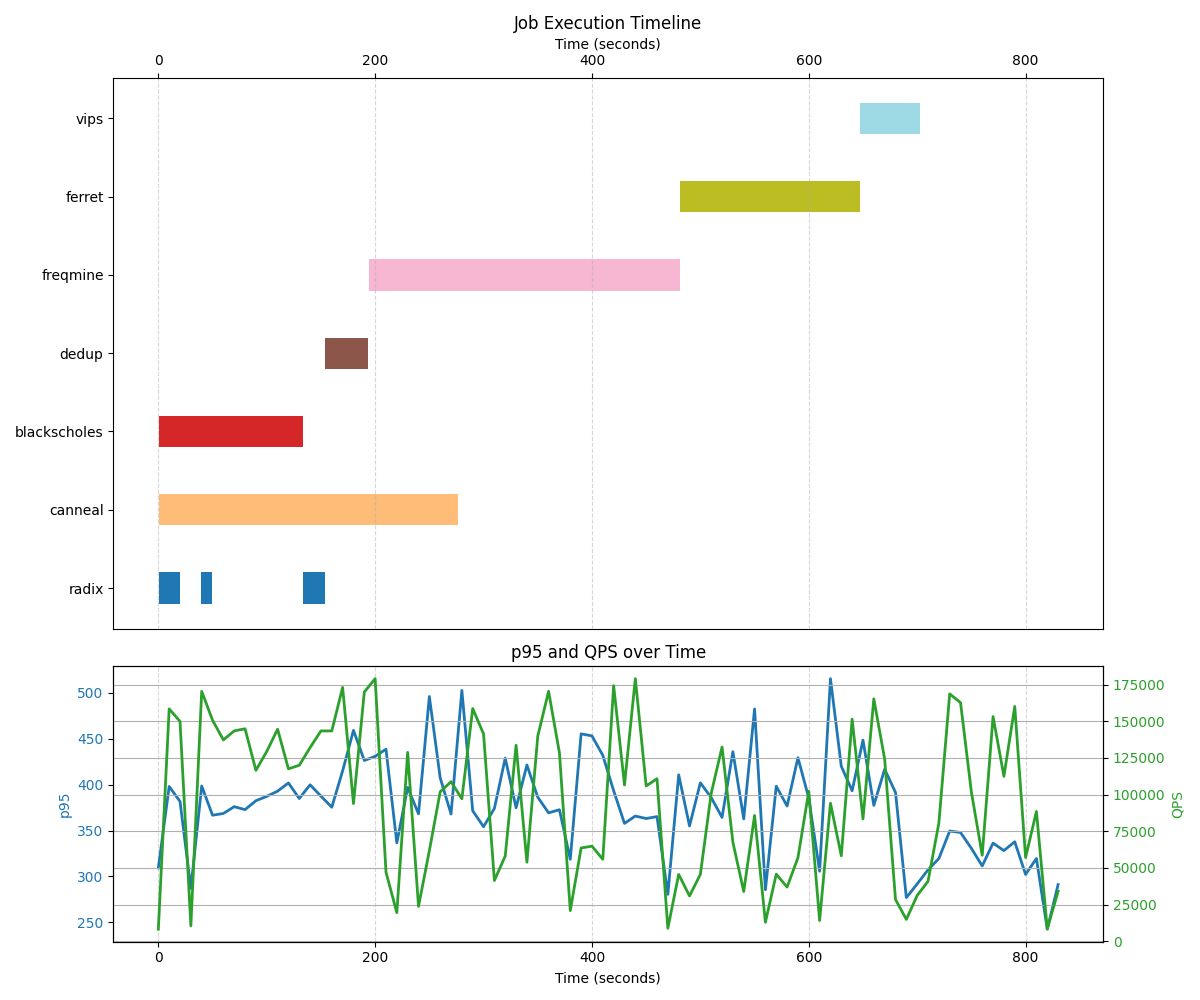
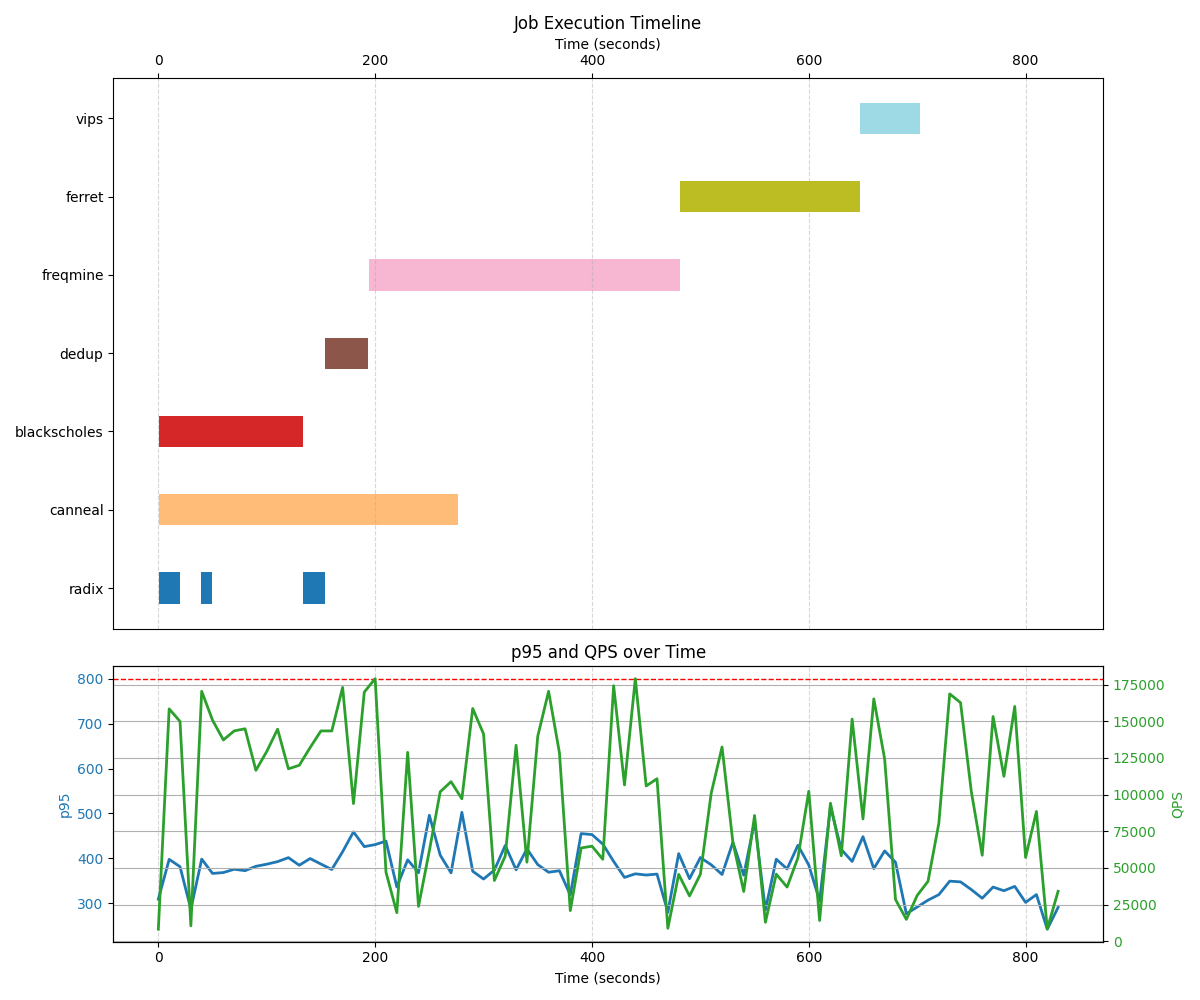
updated plots

diff --git a/part4/plot_4_3_B.py b/part4/plot_4_3_B.py
@@ -91,24 +91,7 @@ def plot_job_log_file(ax, log_file):
     ax.xaxis.set_label_position('top')
     ax.tick_params(axis='x', which='both', bottom=False, top=True, labeltop=True, labelbottom=False)
 
-
-def plot_mcperf_log_file(ax, log_file, job_log_file):
-    # Read the log file, skipping the first two lines (for Timestamp start/end)
-    with open(log_file, 'r') as f:
-        lines = f.readlines()
-
-    # Extract the 'Timestamp start' and 'Timestamp end' from the first two lines
-    timestamp_start = int(lines[0].split(':')[1].strip())
-    timestamp_end = int(lines[1].split(':')[1].strip())
-
-    # Read the data into a pandas DataFrame, starting from the 3rd line (index 2)
-    # We will use the columns based on your provided header information
-    df = pd.read_csv(log_file, sep=r'\s+', header=2)
-
-    df['Timestamp'] = df.index * 10
-
-
-    # === Load and parse the log ===
+def plot_cpu_cored(ax, job_log_file):
     with open(job_log_file, "r") as f:
         lines = f.readlines()
     time_format = "%Y-%m-%dT%H:%M:%S.%f"
@@ -145,6 +128,14 @@ def plot_mcperf_log_file(ax, log_file, job_log_file):
     ax.tick_params(axis='y', labelcolor='tab:blue')
 
 
+def plot_mcperf_log_file(ax, log_file, job_log_file):
+    # Read the log file, skipping the first two lines (for Timestamp start/end)
+    with open(log_file, 'r') as f:
+        lines = f.readlines()
+
+    df = pd.read_csv(log_file, sep=r'\s+', header=2)
+    df['Timestamp'] = df.index * 10
+
     # Create a second y-axis to plot QPS
     ax_twin = ax.twinx()
     ax_twin.plot(df['Timestamp'], df['QPS'], color='tab:green', label='QPS', linewidth=2)
@@ -152,7 +143,6 @@ def plot_mcperf_log_file(ax, log_file, job_log_file):
     ax_twin.tick_params(axis='y', labelcolor='tab:green')
 
     # Title and show the plot
-    ax.set_title('p95 and QPS over Time')
     ax.set_xlabel('Time (seconds)')
     ax.grid(True, which='both', axis='x', linestyle='--', alpha=0.5)
 
@@ -160,12 +150,13 @@ if __name__ == "__main__":
 
     job_logs = ["task3_outfiles/jobs_1.txt", "task3_outfiles/jobs_2.txt", "task3_outfiles/jobs_3.txt"]
     mcperf_logs = ["task3_outfiles/mcperf_1.txt", "task3_outfiles/mcperf_2.txt", "task3_outfiles/mcperf_3.txt"]
-    for idx, log_file in enumerate(job_logs):
-        fig, (ax_top, ax_bottom) = plt.subplots(
-            nrows=2, ncols=1, figsize=(12, 10), sharex=True, gridspec_kw={'height_ratios': [2, 1]})
+    for idx, job_log_file in enumerate(job_logs):
+        fig, (ax_top, ax_middle, ax_bottom) = plt.subplots(
+            nrows=3, ncols=1, figsize=(12, 10), sharex=True, gridspec_kw={'height_ratios': [2, 1, 1]})
 
-        plot_job_log_file(ax_top, log_file)
-        plot_mcperf_log_file(ax_bottom, mcperf_logs[idx], log_file)
+        plot_job_log_file(ax_top, job_log_file)
+        plot_cpu_cored(ax_middle, job_log_file)
+        plot_mcperf_log_file(ax_bottom, mcperf_logs[idx], job_log_file)
 
         plt.grid(True)
         plt.tight_layout()

diff --git a/part4/plot_4_3_A.py b/part4/plot_4_3_A.py
@@ -98,10 +98,6 @@ def plot_mcperf_log_file(ax, log_file):
     with open(log_file, 'r') as f:
         lines = f.readlines()
 
-    # Extract the 'Timestamp start' and 'Timestamp end' from the first two lines
-    timestamp_start = int(lines[0].split(':')[1].strip())
-    timestamp_end = int(lines[1].split(':')[1].strip())
-
     # Read the data into a pandas DataFrame, starting from the 3rd line (index 2)
     # We will use the columns based on your provided header information
     df = pd.read_csv(log_file, sep=r'\s+', header=2)
@@ -109,6 +105,8 @@ def plot_mcperf_log_file(ax, log_file):
     df['Timestamp'] = df.index * 10
 
     # Plot p95 on the left y-axis
+    ax.axhline(y=800, color='r', linestyle='--', linewidth=1)
+
     ax.plot(df['Timestamp'], df['p95'], color='tab:blue', label='p95', linewidth=2)
     ax.set_xlabel('Time (seconds)')
     ax.set_ylabel('p95', color='tab:blue')
